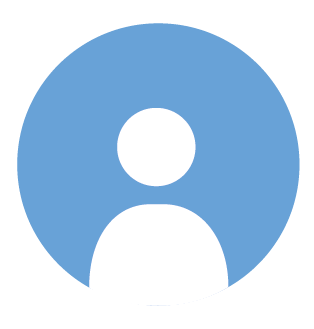
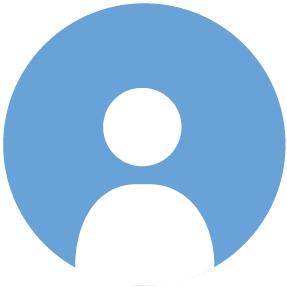
Update appbar profile image change to vuetify

diff --git a/client/src/components/AppBar/appbar.component.vue b/client/src/components/AppBar/appbar.component.vue
@@ -8,14 +8,20 @@
       v-on:click="this.onClickRedirect"
     />
     <span class="app-logo-text" v-on:click="this.onClickRedirect">MI:ON</span>
-    <img
-      v-if="this.$store.state.userToken"
+    <div>
+    <v-avater>
+      <!-- 임시로 이미지 지정 -->
+      <!-- v-if="this.$store.state.userToken" -->
+      <!-- :src="this.$store.getters.getUserImageUrl" -->
+        <img
       class="user-profile-image"
-      :src="this.$store.getters.getUserImageUrl"
+      src="../../assets/AppBar/default-profile.png"
       width="52"
       height="52"
       v-on:click="this.onSignOut"
     />
+    </v-avater>
+    </div>
   </div>
 </template>
 
